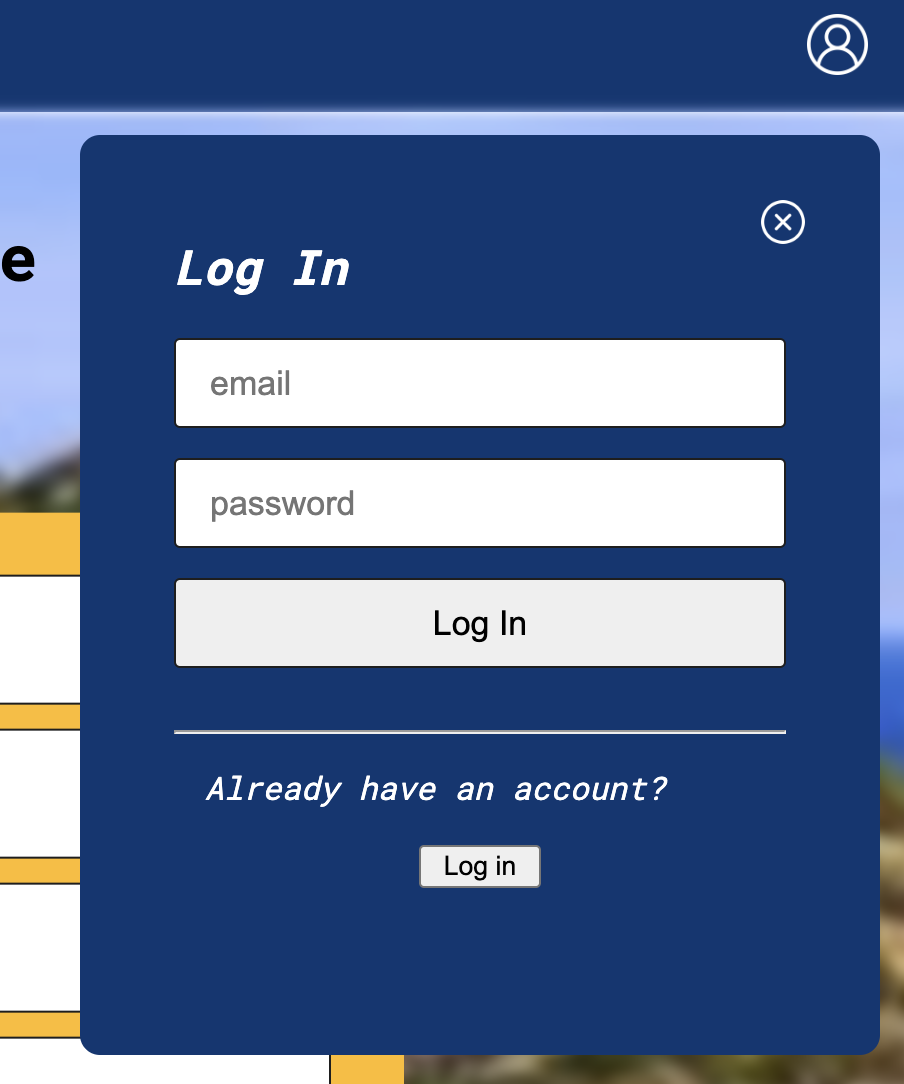
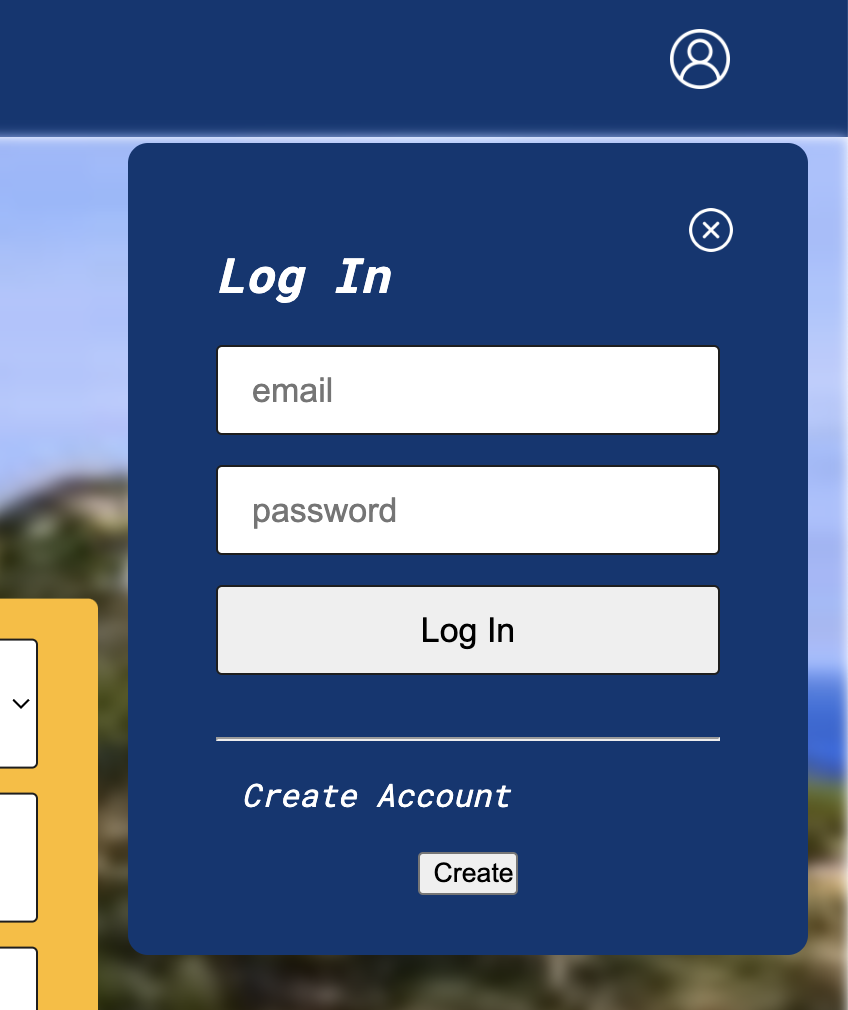
README-Images changed

diff --git a/client/src/components/FlightAndHotel.js b/client/src/components/FlightAndHotel.js
@@ -52,6 +52,7 @@ const FlightAndHotel = ({ showLoader, inputs, setInputs, setFlightsHotels }) => 
                     <div className="text-field-wrapper col-12 p-lr">
                         <label for='abflughafen'>Abflughafen</label>
                         <select value={inputs.outbounddepartureairport} onChange={e => setInputs(prev => ({ ...prev, ["outbounddepartureairport"]: e.target.value }))} name='outbounddepartureairport'>
+                            <option name=""></option>
                             <option name="AMS">AMS</option>
                             <option name="BER">BER</option>
                             <option name="BLL">BLL</option>

diff --git a/README.md b/README.md
@@ -6,36 +6,51 @@ The project is divided into 2 folders. The **client folder** contains the fronte
 The frontend was implemented with the Javascript framework **React JS**, the backend was implemented with **Node Js**.
 
 ### Front-End
-The project is realized through a website, which is available as a desktop version. Due to the short duration of the project, this version is not yet responsive, meaning that on smaller devices such as smartphones or tablets, the website content may not be displayed properly.
+The project is realized through a website, which is available as a desktop version. This version is not yet responsive, meaning that on smaller devices such as smartphones or tablets, the website content may not be displayed properly.
 
+#### Homepage
 The website has a home page (**Home.js**) where you can see the search box with the user input. The user can choose to search only for hotels, or for hotels&flights. So he can change the search window by clicking on the buttons above.
-![Homepage-Flug&Hotel-SearchWindow](./README-IMAGES/Home-Flug&Hotel.png)
-![Homepage-Hotel-SearchWindow](./README-IMAGES/Home-Hotel.png)
+![Homepage-Flug&Hotel-SearchWindow](./README-IMAGES/Home-FH.png)
+![Homepage-Hotel-SearchWindow](./README-IMAGES/Home-H.png)
 
+
+#### ResultPage
 The destinations and departure airports can be selected via a dropdown, the date via a calendar view and the number of adults, children and rooms via a text field that only accepts numbers. When the user clicks on the blue button and all the fields are filled in, the search is started and the user is redirected to the next page (**ResultPage.js**), where the search window is still displayed on the left side, where entries can still be changed, and the results are displayed on the right side.
+![Resultpage](.README-IMAGES/Results-FH.png)
+![Resultpage](.README-IMAGES/Results-H.png)
 
+#### Individual Hotel Offers
+By clicking on the "Zu den Angeboten" button, the offers specific to the selected hotel will appear.
+![Resultpage-Individual Offers](.README-IMAGES/Offers.png)
 #### Inputs:
 <div display='flex'>
-<img src='./README-IMAGES/Reiseziel-Dropdown.png' width='30%'>
-<img src='./README-IMAGES/Abflughafen-Dropdown.png' width='30%'>
-<img src='./README-IMAGES/Datum-Eingabe.png' width='30%'>
+<img src='./README-IMAGES/Input-Destination.png' width='30%'>
+<img src='./README-IMAGES/Input-Departure.png' width='30%'>
+<img src='./README-IMAGES/Input-Date.png' width='30%'>
 </div>
 
 
 #### Saved Inputs:
 No matter in which search field the data is entered, the data is stored in all fields.
 <div display='flex'>
-<img src='./README-IMAGES/Eingabe-Gespeichert.png' width='30%'>
-<img src='./README-IMAGES/Eingabe-Gespeichert-Hotel.png' width='30%'>
-<img src='./README-IMAGES/Eingabe-Gespeichert-Filter.png' width='30%'>
+<img src='./README-IMAGES/Input-Saved.png' width='30%'>
+<img src='./README-IMAGES/Input-Saved-H.png' width='30%'>
+<img src='./README-IMAGES/Input-Saved-R.png' width='30%'>
 </div>
 
 
-
+#### Login
 In the navigation bar, clicking on the Check24 logo will take the user to the homepage, and clicking on the profile icon will cause a Login/CreateAccount window to pop up, where the user can create an account or log in.
 <div display='flex'>
-<img src='./README-IMAGES/Create-Account.png' width='250px'>
+<img src='./README-IMAGES/CreateAccount.png' width='250px'>
 <img src='./README-IMAGES/LogIn.png' width='250px'>
 </div>
 
+
+#### Loading Circle
+As soon as the search for offers is started and the data is loaded, a rotating loading-circle appears. As soon as all results are loaded or you switch to the results page, the loading circle disappears.
+
+<img src='./README-IMAGES/Loader.png'>
 ### Back-End
+
+
